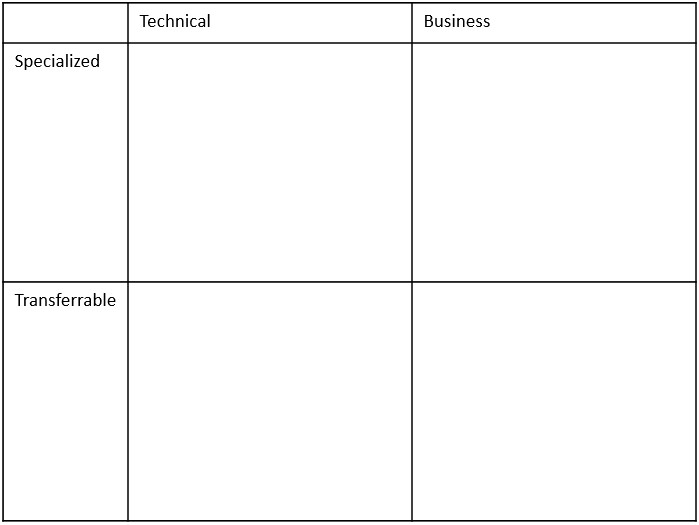
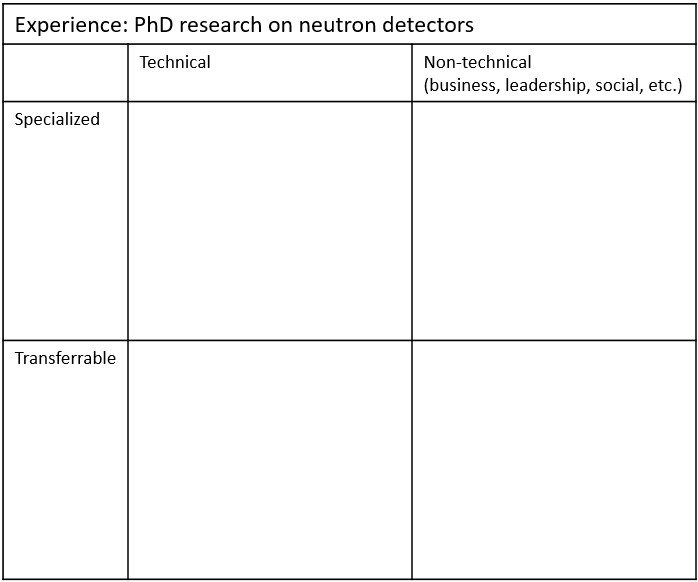
Add skills matrix images

Changed region(s): [[0.0, 0.0, 1.0, 1.0]]

diff --git a/_posts/2021-10-10-episode-two-brainstorming.md b/_posts/2021-10-10-episode-two-brainstorming.md
@@ -24,156 +24,63 @@ First of all, let's discuss categories of skills. Generally, we have two main ca
  
 Another way of separating skills is by subject matter  
 * Specialized- pertaining to a specific field of study or a specific industry
-* Transferrable- skills that you can use across many fields. 
+* Transferable- skills that you can use across many fields. 
 
 Now draw a "skills matrix" with two columns and two rows: 
 
 ![Skills matrix](/freed_from_tweed/docs/assets/images/skills_matrix_00.jpg)  
-![Skills matrix](../freed_from_tweed/docs/assets/images/skills_matrix_00.jpg)  
-![Skills matrix](/../docs/assets/images/skills_matrix_00.jpg)  
-![Skills matrix](/freed_from_tweed/img/skills_matrix_00.jpg)  
-![Skills matrix](/freed_from_tweed/img/skills_matrix_00.jpg)  
+
+I will fill this out for the experience I had during my PhD program of working in a neutron generator facility and doing research on neutron detectors. I am going to break up all of the different activities I had into the four categories. 
+
+![Skills matrix](/freed_from_tweed/docs/assets/images/skills_matrix_01.jpg)  
+
+Now I will go back and try to break those activities down a bit further into specific skills. If you want to get a nice list of resume skills, you can look around online. [Here is an article from indeed](https://www.indeed.com/career-advice/resumes-cover-letters/technical-skills) with a lot of examples. Do your best to include as much detail as you can. 
+
+![Skills matrix](/freed_from_tweed/docs/assets/images/skills_matrix_02.jpg)  
+
+Now I have a skills matrix for one experience. But I did a lot of other things in grad school and elsewhere in my life that will be useful in my career. So I will make a skills matrix for lots of different experiences:  
+* Research in neutron detectors  
+* Classes in public policy  
+* Piano teacher for the girls down the street  
+* Study abroad in Shanghai during undergrad  
+
+Some of these may seem unrelated or too long ago, but at this point I am just trying to document everything. All of these experiences are useful and relevant, and you never know when you will stumble on an opportunity that is relevant to something you did a while back, that is no longer listed on your resume. I may find a job posting that I am interested in that requires frequent travel to a customer in Asia, and then I would want to showcase my study abroad experience, which would probably give me an edge over other applicants.  
+
+You can organize these skills matrices in a few different ways. I like to open a powerpoint presentation and make one slide per experience. Zack wrote his on a piece of paper:
+
+![Skills matrix](/freed_from_tweed/docs/assets/images/skills_matrix_zack.jpg) 
+ 
+In the end, what are you going to use this matrix for?  
+* Your task will be to market yourself for a job. You need to be able to explain objectively why you should be hired for this role, and back that up with evidence and examples.  
+* Each role that you are interested in is going to ask for different skills. If you have all of your skills already organized and matched to the relevant experience, then you can quickly and coherently put together a targeted resume that is relevant to each position. (We will talk more about this in a future episode about applying for jobs. For now, just use this as a brain dump.)  
+
+Be generous with yourself, include any little thing. Have you ever reviewed your lab mate's paper? Include that-- you have reviewed technical writing and provided internal feedback on a technical document. I think you will find it empowering to recognize that you have a lot of valuable experiences and transferrable skills!
+
+## Core competencies 
+ 
+Core competencies are kind of a category within skills, and they are often personality traits that you already have by nature. To give you some examples, I found [a great list at 123test.com] (https://www.123test.com/competencies-list/). Here are a few examples they give:  
+* Attention to detail  
+* Independent learning  
+* Financial awareness  
+* Entrepeneurship  
+* Communication skills  
+* Customer-oriented  
+* Adaptability  
+* Results-oriented  
+* Data-driven  
+* Critical thinking  
+* Strategic thinking  
+* Negotiating  
+* Planning and organizing  
+
+This website also has a table farther down that gives examples of how these core competencies are useful in various careers, which can help you understand how these are relevant to your job search. 
+
+These competencies set you apart from your peers and you want to be aware of your core competencies and play them up in your career search. This is another area where it can be hard to identify your own core competencies, so you can rely on people who know you well to help you. Think about other people describe you, or what role you often take in a group settings. You can even show your friends or peers a list of core competencies and ask them which ones make them think of you. 
+
+One resource for identifying your core competencies is the [Clifton Strengths Finder](https://store.gallup.com/p/en-us/10108/top-5-cliftonstrengths). This is an online test that you take (it costs $20 at the time of this writing) in which you will answer 
 
 
-* Example 1, technical: I studied neutron detectors in my PhD, and that technology was pretty specialized and mostly applicable to nuclear engineering or national security applications
-Example 2, non-technical: I managed the neutron generator laboratory space at a national lab. That involved keeping up on the permits and maintenance for the equipment, working with radiation dosimetry people to approve the space.
-Transferrable 1- general skills that you can use across many fields
-Example 1, technical: But part of my work with neutron detectors was doing digital signal pulse processing, and that can be applied to any field where you are analyzing sensor signals. So even though I studied neutron detector output, I could very quickly get up to speed on data coming from other types of sensors. So I could market that work experience to a vast number of technical fields
-Example 2, non-technical: As manager of the neutron generator lab, I had to coordinate time slots for all of the users, including over the weekend. That is a strong business skill, the prioritization, communication, scheduling, on call stuff, that many companies need help with so they can best utilize their resources. Also, I came up with our scheduling method myself from scratch, which shows something beyond a skill: a core competency. We will talk about core competencies in more detail in a minute.
- 
-So how can I organize all of the skills I have from this one experience of running a neutron generator laboratory and studying neutron detectors?
- 
-Create a 2x2 matrix.
- 
-Technical
-Business
-Specialized
- 
- 
-Transferrable
- 
- 
-
-Draw a grid with two rows and two columns
-Label the columns: Technical skills, business skills
-Label the rows: Transferrable, specialized
- 
-I am going to copy in the things I already mentioned from my neutron generator work in my matrix. Keep them short and concise. Split your experiences up into specific things.
- 
-Title: Neutron generator lab work
- 
-Technical
-Business
-Specialized
-Neutron detectors- how they work, how to operate them
-How to use a neutron generator to characterize a neutron detector
-Managed a neutron generator lab space at a national laboratory
-Kept permits and equipment maintenance current
-Worked with radiation dosimetry people to approve the space
-Transferrable
-Digital signal pulse processing
-Analyzing sensor signals
-Coordinate scheduling for laboratory users
-Prioritize projects, communicate with users, coordinate weekend on call
-Developed the scheduling system myself
-
- 
-Right now it is more of an experiences matrix. We want to strip it down a little more to name the specific skills that you are utilizing.
- 
-(RESOURCE NEEDED)- need an online research with a long list of technical and business skills
-Title: Neutron generator lab work, skills in red
-Search for “examples of resume skills”--- Indeed has a lot of nice articles with examples
-https://www.indeed.com/career-advice/resumes-cover-letters/technical-skills
-	Programming languages
-	Software design: Coding, debugging, test-driven development, object-oriented
-	Productivity software applications: Salesforce, Jira, Zoom, Slack
-	Project management: budget planning, risk management, task management
-	Product management: Agile methodology, user experience design, product roadmaps
-
- 
-Technical
-Business
-Specialized
-Neutron detectors- how they work, how to operate them, DT, DD, model numbers
-How to use a neutron generator to characterize a neutron detector, scintillator detectors, photomultiplers, high voltage power source, again lots of specific information
-Managed a neutron generator lab space at a national laboratory- user facility, national lab
-Kept permits and equipment maintenance current- regulation, scheduling, responsibility, dependable
-Worked with radiation dosimetry people to approve the space- internal collaboration, following safety protocol, safety culture
-Transferrable
-Digital signal pulse processing: MATLAB, python, C++ data acquisition, binary file parsing
-Analyzing sensor signals, sensor characterization, anomaly detection, debugging and recovery, correcting for environmental effects
-Coordinate scheduling for laboratory users- scheduling, coordination, managing expectations
-Prioritize projects, communicate with users, coordinate weekend on call- communication, coordination, prioritization
-Developed the scheduling system myself- (core competency), organized, fair, planning, logistics
-
- 
-So now we have a skills matrix for one experience. But I did lots of other things in grad school and elsewhere in my life that are applicable to my skills. So I am going to make a skills matrix for lots of different experiences:
-Research in neutron detectors
-Classes in national security public policy
-Piano teacher for the girls down the street
-Shows I can design a curriculum, individualize it to the student, juggle many different responsibilities
-Study abroad in Shanghai during undergrad
-International travel experience, international collaboration, specific knowledge of Chinese language and culture.
- 
-It's very unlikely that another student in my class has the exact same list of experiences. It's just not going to happen. All of these experiences are useful and relevant, even though some are far away from my PhD work, like the piano teacher.
- 
-You're going to make a skills matrix for each of these experiences. So you could organize it as a separate sheet in an excel document, or open a powerpoint and make a separate slide for each experience, or just put a bunch of tables in a word document. I will put an example template on the website for this.
-Depending on how broad you want to be, you could just pick three different main experiences in your life, like maybe your PhD research, a recent internship, and a leadership position you have, or you could go on and on and have more than 20 different experiences that you break down.
-It doesn't matter so much right now how you organize it, you're just trying to get as much down on the page as you can. You will come back through later and sift through it.
- 
-In the end, what are you going to use this matrix for?
-Your task will be to market yourself for a job, imagine you are marketing yourself like a product. You need to be able to explain objectively why you should be hired for this role, and back that up with evidence and examples.
-Each role that you are interested in is going to ask for different skills. If you have all of your skills already organized and matched to the relevant experience, then you can quickly and coherently put together a targeted resume that is relevant to each position.
-We will talk more about this in a future episode about applying for jobs. For now, just use this as a brain dump.
-Be generous with yourself, include any little thing. Have you ever reviewed your lab mate's paper? Include that, you have reviewed technical writing, provided internal feedback on a technical document.
- 
-I want to talk next about core competencies but before we do, Zack do you have anything you want to add about the skills matrix?
- 
-Zack's thoughts: Specialized non-technical
-The hardest to pick up
-Employers don't often value them
-You'll pick it up on the job
-You might not have anything here
- 
-Some will be harder to populate than others.
-Start browsing job descriptions to get an idea. If there are skills or experiences listed in the job description, thing through your personal history, is there anything you missed that is relevant? Add it to your lists.
- 
-Do a few iterations on it. Start abstract and then get specific.
-You have a lot more in your experiences than you probably think you do
-Break it down by experience
- 
-It can be really empowering to recognize your transferrable skills. I have a lot of friends who have been in their jobs for a while, like more than five years, and they tell me things like, "I'm bored in my job, I'd like to look for something else, but who else is going to hire me to do photoresist development for lithography systems??" They think that they are now limited to opportunities that make use of their specialized skills, but actually they are competitive for lots of roles doing lots of different things but using your more generalized skills.
- 
-CORE COMPETENCIES -------------------------------------------------------
-What is a core competency vs a skill?
- 
-Personal core competencies- these are sometimes personality traits that you have by nature just based on who you are, but some are learned
-Google the phase "list of personal core competencies"- I found a great list at 123test.com https://www.123test.com/competencies-list/
-Attention to detail
-Independent learning
-Financial awareness
-Entrepeneurship
-Communication skills
-Customer-oriented
-Adaptability
-Results-oriented
-Data-driven
-Critical thinking
-Strategic thinking
-Negotiating
-Planning and organizing
-Sets you apart from the people in your class because they may not have the same qualities as you
-Zack anecdote: Think about behavioral interview questions. This is what they are trying to measure.
-We will talk about behavior interview questions in a future episode about what to expect in an interview, but they generally go like this:
-Tell me about a time when….
-You had to collaborate with a difficult partner?
-You knew you were going to miss a deadline?
- 
-Farther down the page on this same website on 123test.com, there is a table that gives more detailed meaning of the competency and an example of a profession in which the competency is important. Here is their first example
-Competency: being observant
-Meaning: noticing and acting on signals given by people, organizations, and society
-Example: You are quick to notice if there is something up with another person
-Example of profession in which this competency is important: Therapist, bodyguard, trendwatcher, manager
+### STOPPED HERE
  
 This brings me to one of my favorite resources, the Clifton Strengths Finder test. This is an online test that you can take, it does cost money, but for me it was definitely worth the cost. Here is how it works:
 You will answer a huge number of questions, like a hundred questions or more, and they are weird questions. Like they will present you with two things that may be conflicting and may not be, and you have to indicate which one you lean more toward
